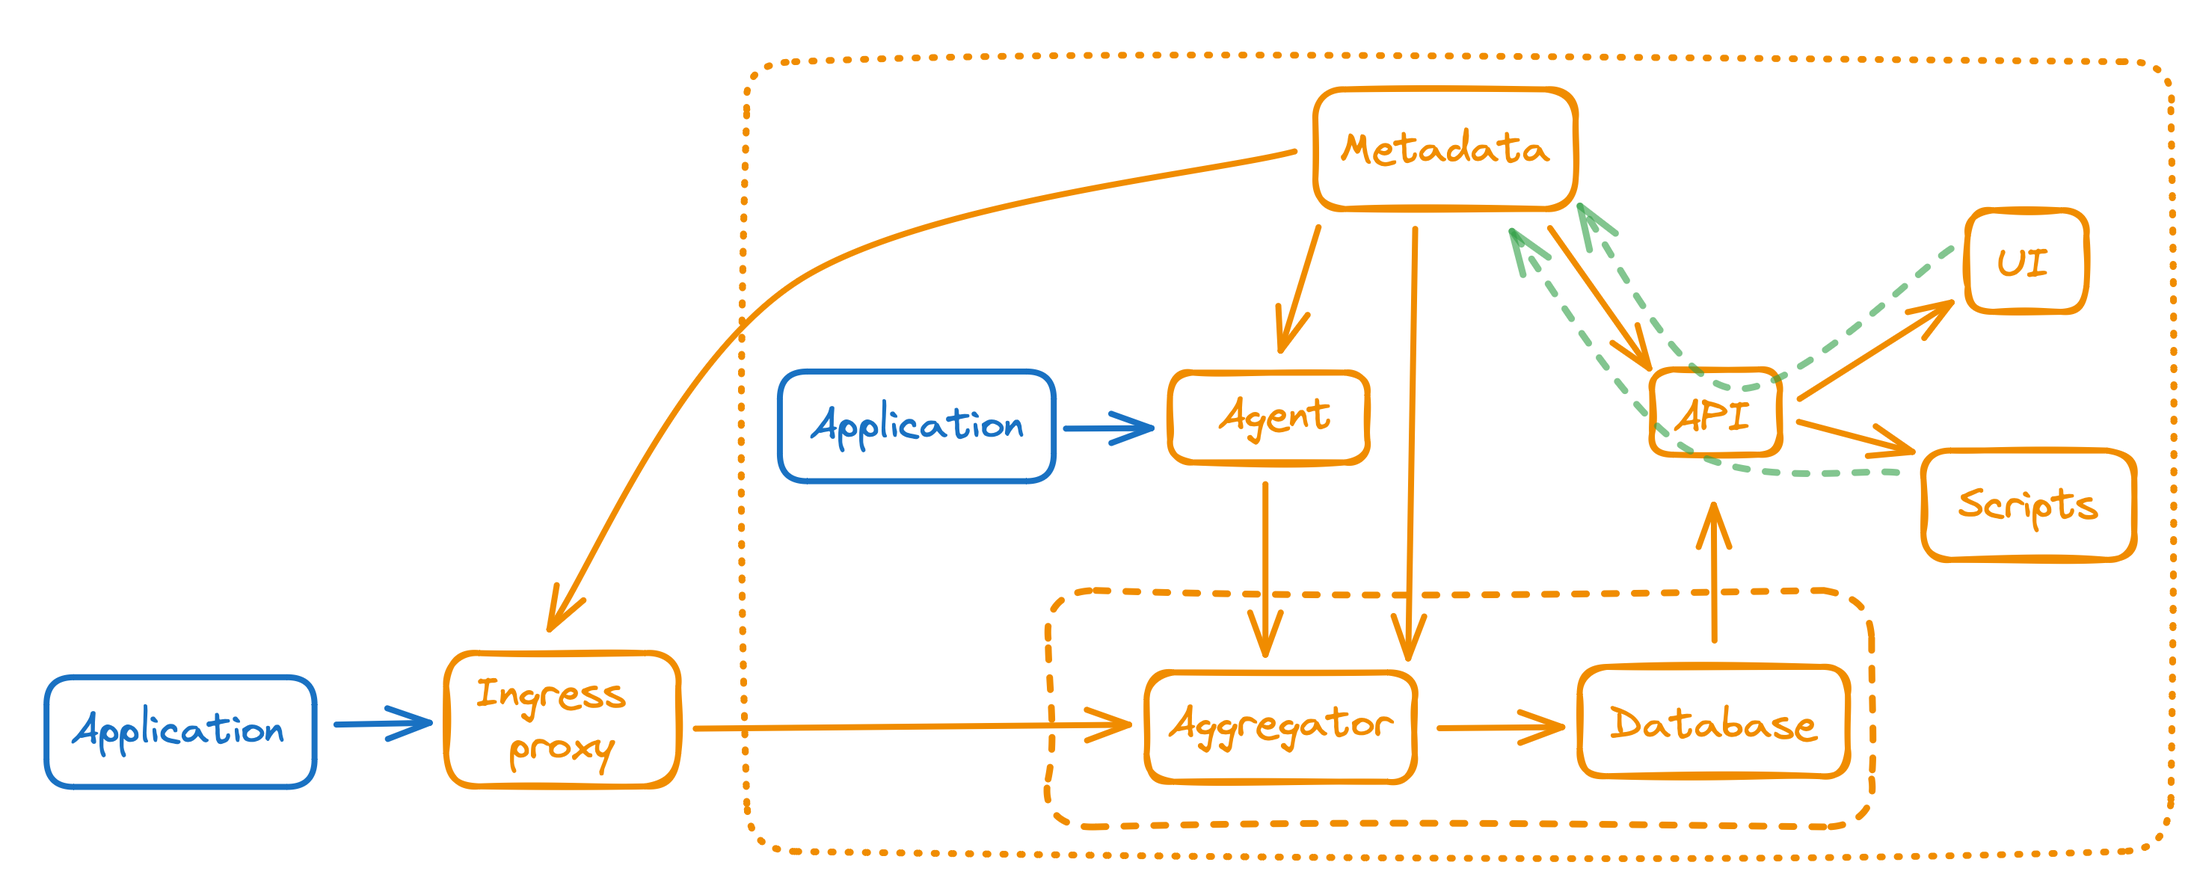
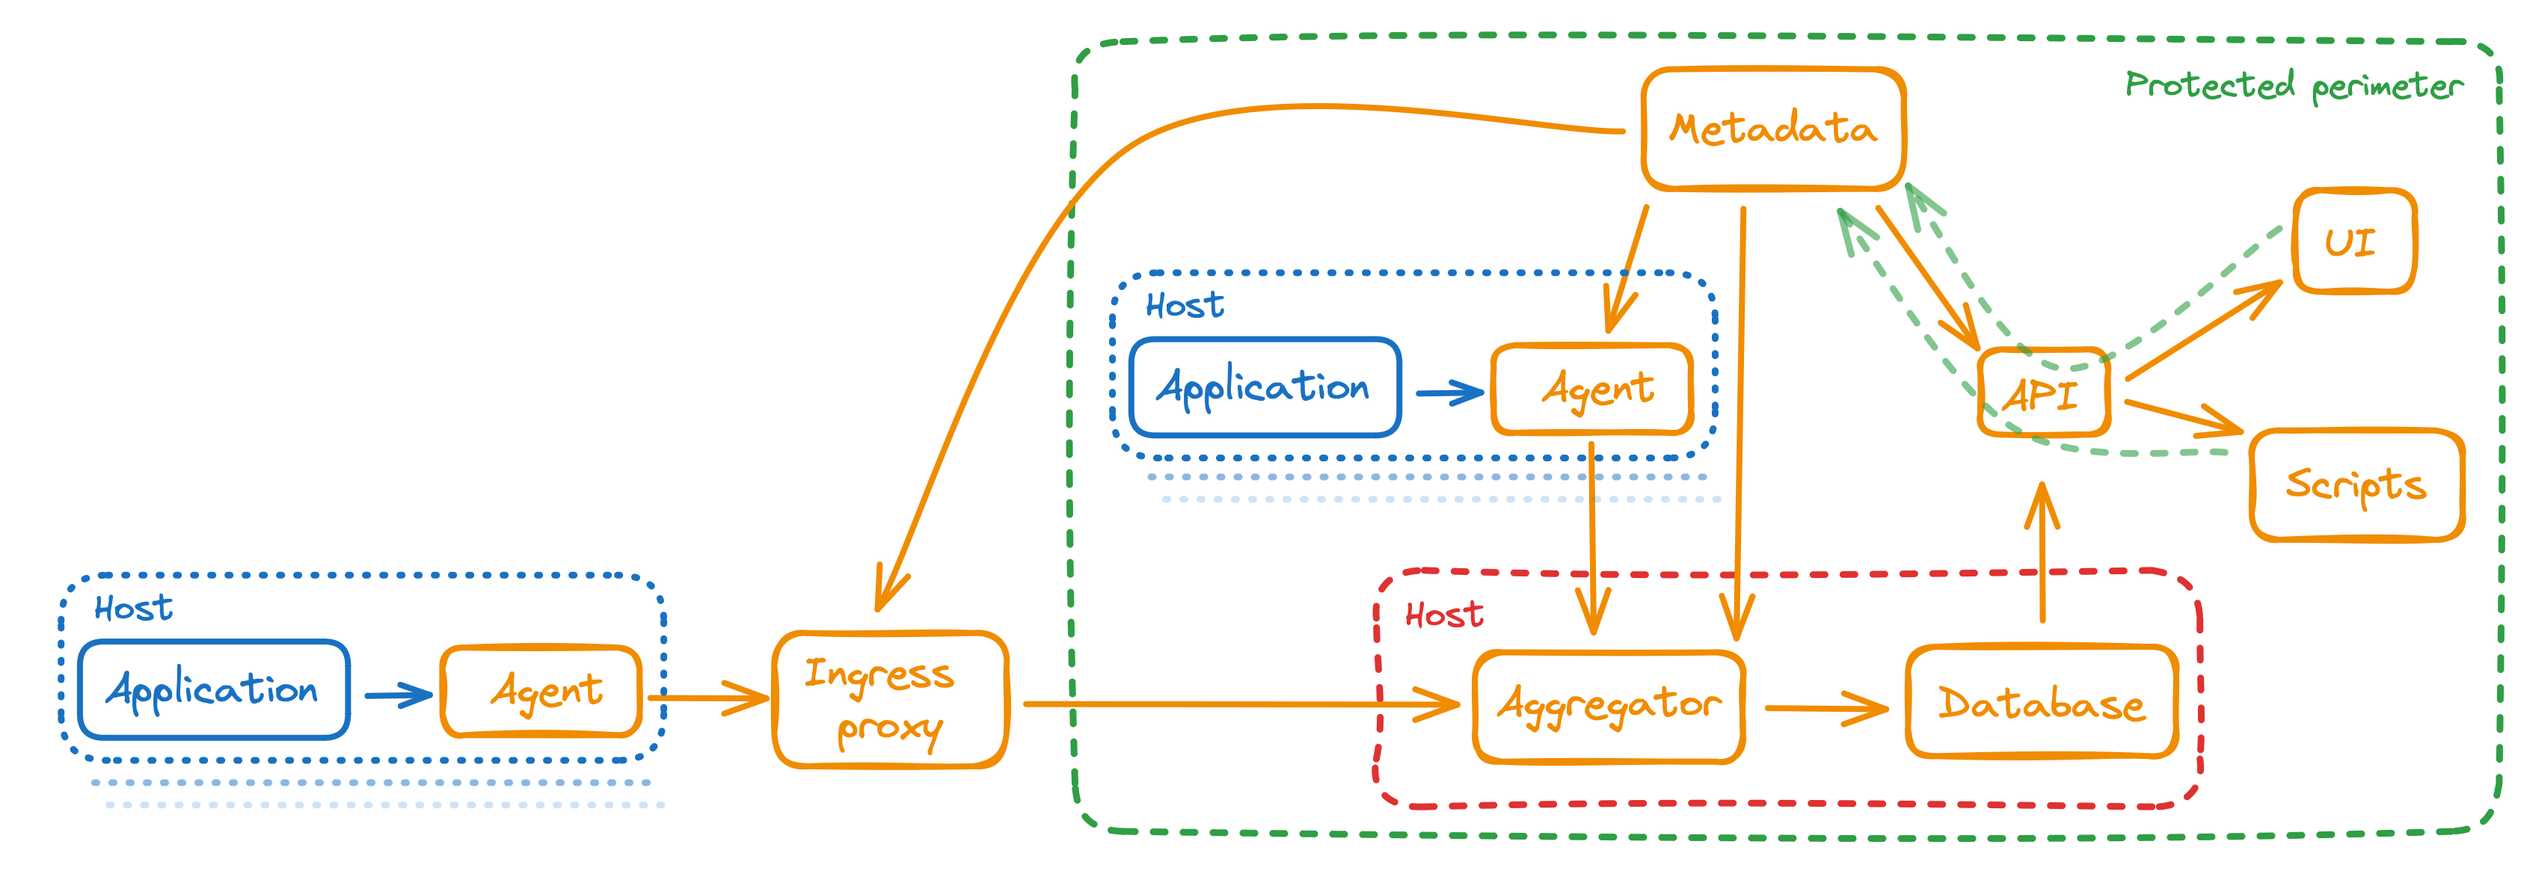
Added 'Components' section with updates

diff --git a/website/docs/conceptual overview/components.md b/website/docs/conceptual overview/components.md
@@ -8,6 +8,11 @@ import Aggregator from '../img/aggregator.png'
 import ShardsReplicas from '../img/shards-replicas.png'
 import RealHist from '../img/real-hist.png'
 import OddEven from '../img/odd-even.png'
+import IngressProxy from '../img/ingress-proxy.png'
+import AgentParameters from '../img/agent-parameters.png'
+import IngressProxyParameters from '../img/ingress-proxy-parameters.png'
+import Mapping from '../img/mapping.png'
+import MappingCached from '../img/mapping-cached.png'
 
 # Components
 
@@ -133,7 +138,6 @@ statshouse.metric#3325d884 fields_mask:#
 @write statshouse.addMetricsBatch#56580239 fields_mask:#
   metrics:(vector statshouse.metric)
 = True;
-
 ```
 
 Receive errors are returned as TL errors. We do not specify the error codes as we assume only logging and manual 
@@ -289,28 +293,281 @@ one.
 The `stag` column is not empty only if a metric has a [String top tag](../guides/design-metric.md#string-tag).
 :::
 
-## Data access service (API)
+To get data for time intervals longer than a second, StatsHouse aggregates data within them and produces per-minute
+and per-hour aggregates.
 
-## User interface
+Data is distributed across the ClickHouse shards using the hash of `metric, key0, … , key15`.
+If a metric has multiple tags, its data related to a particular tag (i.e., `"protocol":"tcp"`) are usually stored on
+different shards. To get the full statistics, one should always make _distributed queries_ to the whole set of shards.
+
+What is the reason for it?
+The set of tag values has a certain cardinality: there is a finite number of possible tag value combinations for a
+metric. If we reach this cardinality limit, i.e., we send all these tag value combinations, the amount of data stops
+increasing due to [aggregation](concepts.md#aggregation)—StatsHouse aggregates the events with the same tag value
+combination.
+
+To store the sample of data for the whole metric, each shard should store as many rows as there are tag value
+combinations for a metric—not a part proportional to a number of shards.
+
+StatsHouse does not use buffer tables—each aggregator inserts data once per second. Data is inserted into the 
+incoming table. The data is filtered by `time` within a receive window (48 hours) and copied via the meterialized 
+view. It prevents StatsHouse from inserting the "garbage" data. Otherwise, ClickHouse should have read data not 
+from one or two partitions but from all of them.
+
+A shard should have three or more replicas. Aggregators insert data into the first three ones.
+The rest ones are read-only replicas and may be used to scale the reading load.
+
+The number of shards can be any. To prevent incorrect configuration and inconsistent sharding, which may lead to a 
+sharp increase in the amount of data due to weak aggregation, agents send the number of a replica shard to 
+the aggregator. If the aggregator is not the right recipient for this data, it responds with an error. The same 
+number helps the _ingress proxy_ to forward data to the right aggregator.
+
+## Application programming interface (API)
+
+Find StatsHouse [OpenAPI](../guides/openapi.md) specification.
+
+The thin API client allows StatsHouse to send efficient queries to the database.
+The service caches data to minimize a database load. We limit retrieving data directly from ClickHouse
+as much as possible, since ineffective queries can negatively impact the ClickHouse cluster.
+
+## User interface (UI)
+
+A user interface retrieves data from `statshouse-api` and displays metric data in a graph view.
 
 ## Ingress proxy
 
+An ingress proxy receives data from the agents that live outside the protected perimeter
+(i.e., outside the data center) and sends it to the aggregators.
+
+Agents and aggregators use the TL/RPC protocol with the data center encryption key. So, the agents outside the 
+data center cannot connect to aggregators directly, because it would require disclosing or copying the key to the 
+external systems.
+
+The ingress proxy has a separate set of encryption keys for the external connections. To revoke the encryption 
+key, one should delete it from the ingress proxy configuration.
+
+Ingress proxy does not have a state. To reduce the likelihood of an attack, it proxies only the subset of TL/RPC 
+request types used by the aggregators.
+
+There should be exactly three ingress proxies. Each of them is a proxy to a corresponding replica of a shard. 
+If the proxy is unavailable due to service or shutdown, it is equivalent to a breakdown of one shard's replica and 
+does not affect the normal operation of the StatsHouse system.
+
+<img src={IngressProxy} width="600"/>
+
 ### Cryptokeys
+
+StatsHouse uses the VK RPC protocol with the (optional) encryption to connect the components.
+
+According to the VK RPC protocol, the cryptokey is both the login for getting access and the secret for getting the 
+ephemeral connection keys. To establish a connection, the client has to use one of the keys known to a server. 
+The central system component is the aggregators. Upon startup, they get the single "major" data center cryptokey.
+
+To connect to aggregators, the agents should get the parameters:
+* `-agg-addr=X`—the addresses of the first aggregators' shards;
+* `-aes-pwd-file=X`—the "major" data center cryptokey.
+
+<img src={AgentParameters} width="300"/>
+
+The mechanism above is secure only inside the protected perimeter. To connect from the outside, use the ingress proxy 
+installed at the border.
+
+This ingress proxy at the border has two parts:
+* an RPC server for the agents to connect from the outside,
+* an RPC client for the proxy to connect to the aggregators within the perimeter.
+
+For the ingress proxy, one should configure the parameters:
+* `-ingress-external-addr`—the proxies' external addresses the agents use for connection;
+* `-ingress-addr=X`—the parameter to control the interfaces for connecting agents.
+The `-ingress-addr=X` parameter is usually `:8128` that is the same as `0.0.0.0:8128`.
+It also may contain the subnet address of the network adapter to make it the 
+only gateway for connections. The port in the `-ingress-addr=X` parameter should match one of the ports in the 
+`-ingress-external-addr` parameter. The "outer" part of the ingress proxy should be available to the agents via these ports. 
+* `-aes-pwd-file=X`—the inner cryptokey for sending data to the aggregators,
+* `-ingress-pwd-dir=X`—a set of the external keys for the agents from the remote sites.
+
+<img src={IngressProxyParameters} width="500"/>
+
+This file contains the cryptokey; the file name is ignored and regarded as a comment.  
+The keys have random length—four bytes at least. The first four bytes are for key identification, so they must not 
+be identical.
+
+If the external keys in the directory are changed, restart the ingress proxy. The ingress proxy does not keep track 
+of this directory, because the external keys in the set are changed rarely.
+
+Each agent gets one of the keys from the ingress proxy's `-ingress-pwd-dir=X` directory as the `-aes-pwd-file=X` 
+parameter.
 
 ### A proxy behind the proxy
 
+Three ingress proxy instances simulate aggregators. One can set up one more ingress proxy level behind the existing 
+proxies. This level will use the previous ingress proxies as the aggregators.
+
+For the second proxy level, provide the parameters:
+* `-agg-addr=X`—three addresses from the `-ingress-external-addr=X` parameter of the previous ingress proxy level,
+* `-aes-pwd-file=X`—one of the cryptokeys from the `-ingress-pwd-dir=X` directory of the previous ingress proxy level.
+
 ### Kubernetes-related questions
+
+With the VK RPC protocol, StatsHouse gets the ephemeral connection keys using the remote and local IP addresses 
+of the connection—as they are shown to the client and the server.
+
+Routing packets from one adapter to another via firewall makes establishing the connections impossible.
+
+To connect the [Kubernetes](https://kubernetes.io)-like components, create the virtual network adapters and connect 
+them using the [Linux network namespaces](https://lwn.net/Articles/580893/).
+
+:::important
+Please avoid deploying agents and the ingress proxies in the Kubernetes pods.
+We strongly recommend deploying them on the server—make sure to specify the `13337` port.
+
+The reason is that StatsHouse "does not like" the fluctuating number of agents. 
+The agents send per-second reports to the aggregators. The permanent number of agents indicates that the agents are 
+connected to the aggregators. The pods that stopped working reduce the number of agents and activate the main StatsHouse alert.
+:::
 
 ## Metadata
 
-### Mapping budget
+A metadata service stores a list of metrics and their properties:
+* the metric type (to show the metric correctly in the UI),
+* the metric name, 
+* tag names, 
+* tags interpretation.
 
-Tag values are usually `string` values and appear repeatedly. For higher efficiency, StatsHouse maps all of them to
-`int32` values. This huge `string`↔`int32` map is common for all metrics. The elements of this map are never deleted.
-To prevent the uncontrollable increase of the map, the budget for creating new mappings is limited to 300.
+We usually deploy this service on the aggregators' first shards. 
+The load on this service is not so high—there is no need to deploy it on a separate host.
+
+### The budget for creating metrics
+
+:::important
+The users can create as many metrics as they wish as soon as they do it manually via the StatsHouse UI.
+
+As a rule, the administrators cannot automate creating metrics. 
+:::
+
+The StatsHouse components rely on the idea that there are not so many different metrics—hundreds of thousands as a 
+maximum. StatsHouse is not protected from the uncontrollable increase of the metrics' number.
+
+:::tip
+If you migrate to StatsHouse from the other monitoring solution, contact the StatsHouse administrators in your 
+organization to enable the "Auto-create" mode (and to disable it upon migration).
+:::
+
+### Getting metric properties from metadata
+
+Aggregators use the TL/RPC long polling to get metrics' information from metadata. Similarly, agents use 
+long polling to get information from aggregators. So, all the agents become informed about the changes in the metrics' 
+properties almost immediately (in a second).
+
+### Deleting metrics
+
+One cannot delete a metric, because there is no efficient way to do it in the ClickHouse database.
+StatsHouse uses the `visible` flag to disable the metric, i.e., to hide the metric from the metric list 
+(it is reversible). Disabling a metric stops writing data for it to the database.
+
+### The mapping mechanism
+
+StatsHouse is known for providing real-time data. To provide users with low latency, StatsHouse maps the 
+`string` tag values (as well as metric names) to `int32` values:
+```
+    'iphone' <=> 12
+    'null' <=> 26
+```
+
+This huge `string`↔`int32` map is global and common for all metrics. The elements of this map are never deleted.
+
+Aggregators get information directly from the metadata service. Agents deal with the mappings via the aggregators.
+Both the agents and the aggregators cache the mappings in memory or in files—for a month.
+
+<img src={MappingCached} width="700"/>
+
+Upon initial startup, the agents use the special bootstrap request to get the 100,000 most frequently used mappings.
+Otherwise, while deploying the agents on the 10,000 hosts, StatsHouse should have downloaded a billion values one by 
+one. It would take a lot of time, and StatsHouse would not be able to write metric data.
+
+#### The budget for creating mappings
+
+To prevent the uncontrollable increase of the `string`↔`int32` map, the budget for creating mappings is limited to 300.
 Upon exceeding the budget, new mappings can be added once per hour (this rule is customizable).
 
-Mapping flood appears when you exceed this budget.
+**Mapping flood** appears when you exceed this budget. When the budget is over and new mappings are not allowed, 
+StatsHouse inserts a service `mapping flood` value to a tag column not to lose the entire event.
 
-Then the budget is over and new mappings are not allowed, StatsHouse inserts a service `mapping flood` value to a
-tag column not to lose the entire event.
+There are options to use [tags with many different values](../guides/design-metric.md#how-many-tag-values) 
+and to avoid the mapping flood: [String top](../guides/design-metric.md#string-top-tag) tag and 
+[Raw](../guides/design-metric.md#raw-tags) tags.
+
+<img src={Mapping} width="600"/>
+
+If you need a tag with many different 32-bit integer values (such as `user_ID`), use the
+[Raw](../guides/design-metric.md#raw-tags) tag values to avoid the mapping flood.
+
+For many different string values (such as `search_request`), use a [String top tag](#string-top-tag).
+
+#### _String top_ tag
+
+The _String top tag_ stands apart from the other ones as its values are _not mapped to integers_. It is a separate 
+`stag` column in the ClickHouse table:
+
+| timestamp | metric           | tag_1                                                           | tag_2                                                         | counter | sum   | min | max  | <text className="orange-text">stag</text>                                   |
+|-----------|------------------|-----------------------------------------------------------------|---------------------------------------------------------------|---------|-------|-----|------|-----------------------------------------------------------------------------|
+| 13:45:05  | toy_packets_size | JSON<br/><text className="orange-text">mapped to `int32`</text> | ok<br/><text className="orange-text">mapped to `int32`</text> | 100     | 13000 | 20  | 1200 | my-tag-value<br/><text className="orange-text">NOT mapped to `int32`</text> |
+
+As the non-mapped strings take up a lot of space and are longer to read, StatsHouse limits their number (e.g., to a 
+hundred). This limit is not configurable for users.
+
+:::important
+For these _String top_ tag values, StatsHouse stores only the most frequently used ones—those with the highest 
+_counter_. The other tag values for this metric become _empty_ and are aggregated.
+:::
+
+For example, the limitation for the non-mapped strings is 4, and we have the following metric data:
+
+| timestamp | metric     | tag_1 | tag_2 | counter | sum | min | max | stag |
+|-----------|------------|-------|-------|---------|-----|-----|-----|------|
+| 13:45:05  | toy_metric | ...   | ...   | 100     | ... | ... | ... | a    |
+| 13:45:05  | toy_metric | ...   | ...   | 3       | ... | ... | ... | b    |
+| 13:45:05  | toy_metric | ...   | ...   | 100     | ... | ... | ... | c    |
+| 13:45:05  | toy_metric | ...   | ...   | 88      | ... | ... | ... | d    |
+
+The next piece of data adds one more row: with the `e` _String top_ tag value and the counter equal to `5`.
+The _String top_ mechanism chooses the tag value with the lowest count (`b` is the less popular one) and makes it 
+_empty_:
+
+| timestamp | metric     | tag_1 | tag_2 | counter | sum | min | max | stag                   |
+|-----------|------------|-------|-------|---------|-----|-----|-----|------------------------|
+| 13:45:05  | toy_metric | ...   | ...   | 100     | ... | ... | ... | a                      |
+| 13:45:05  | toy_metric | ...   | ...   | **3**   | ... | ... | ... | **b** → _empty string_ |
+| 13:45:05  | toy_metric | ...   | ...   | 100     | ... | ... | ... | c                      |
+| 13:45:05  | toy_metric | ...   | ...   | 88      | ... | ... | ... | d                      |
+| 13:45:05  | toy_metric | ...   | ...   | **55**  | ... | ... | ... | **e**                  |
+
+The next piece of data adds one more row: with the `f` tag value and the counter equal to `2`.
+
+| timestamp | metric     | tag_1 | tag_2 | counter | sum | min | max | stag                    |
+|-----------|------------|-------|-------|---------|-----|-----|-----|-------------------------|
+| 13:45:05  | toy_metric | ...   | ...   | 100     | ... | ... | ... | a                       |
+| 13:45:05  | toy_metric | ...   | ...   | 3       | ... | ... | ... | _empty string_          |
+| 13:45:05  | toy_metric | ...   | ...   | 100     | ... | ... | ... | c                       |
+| 13:45:05  | toy_metric | ...   | ...   | 88      | ... | ... | ... | d                       |
+| 13:45:05  | toy_metric | ...   | ...   | 55      | ... | ... | ... | e                       |
+| 13:45:05  | toy_metric | ...   | ...   | **2**   | ... | ... | ... | **f** → _empty string_  |
+
+As the `f` tag value is not in the top of the frequently used ones (i.e., it has the low _count_), it becomes the 
+empty string too and is aggregated with the previous _empty string_:
+
+| timestamp | metric     | tag_1 | tag_2 | counter | sum | min | max | stag                    |
+|-----------|------------|-------|-------|---------|-----|-----|-----|-------------------------|
+| 13:45:05  | toy_metric | ...   | ...   | 100     | ... | ... | ... | a                       |
+| 13:45:05  | toy_metric | ...   | ...   | **3+2** | ... | ... | ... | _empty string_          |
+| 13:45:05  | toy_metric | ...   | ...   | 100     | ... | ... | ... | c                       |
+| 13:45:05  | toy_metric | ...   | ...   | 88      | ... | ... | ... | d                       |
+| 13:45:05  | toy_metric | ...   | ...   | 55      | ... | ... | ... | e                       |
+
+#### _Raw_ tags
+
+If tag values in your metric are originally 32-bit integer values, you can mark them as the _Raw_ ones 
+to avoid the mapping flood. 
+These _Raw_ tag values will be parsed as `(u)int32` (`-2^31..2^32-1` values are allowed) 
+and inserted into the ClickHouse database as is.
+Learn how to [set up _Raw_ tags](../guides/edit-metrics.md#set-up-raw-tags).

diff --git a/website/docs/guides/design-metric.md b/website/docs/guides/design-metric.md
@@ -314,8 +314,8 @@ high [cardinality](../conceptual%20overview/concepts.md#cardinality).
 In StatsHouse, metric cardinality is how many unique tag value combinations you send for a metric.
 
 If a tag has too many values, they will soon exceed the
-[mapping budget](../conceptual%20overview/components.md#mapping-budget) and will be lost: tag values
-for your measurements will be `Empty`.
+[mapping budget](../conceptual%20overview/components.md#the-budget-for-creating-mappings) and will be lost: tag values
+for your measurements will become the empty strings.
 
 Even if all your tag values have been already mapped, and you
 [avoid the mapping flood](edit-metrics.md#set-up-raw-tags) but keep sending data with many tag values,
@@ -334,14 +334,14 @@ We recommend that the very first tags have the lowest cardinality rate. For exam
 If you need a tag with many different 32-bit integer values (such as `user_ID`), use the
 [Raw](#raw-tags) tag values to avoid the mapping flood.
 
-For many different string values (such as `search_request`), use a [String top tag](#string-tag).
+For many different string values (such as `search_request`), use a [String top tag](#string-top-tag).
 :::
 
 ### _Raw_ tags
 
 If tag values in your metric are originally 32-bit integer values, you can
 [mark them as _Raw_ ones](edit-metrics.md#set-up-raw-tags)
-to avoid the [mapping flood](../conceptual%20overview/components.md#mapping-budget).
+to avoid the [mapping flood](../conceptual%20overview/components.md#the-budget-for-creating-mappings).
 
 These _Raw_ tag values will be parsed as `(u)int32` (`-2^31..2^32-1` values are allowed) 
 and inserted into the ClickHouse database as is.
@@ -357,14 +357,14 @@ requests.
 
 With the common tags, you will get [mapping flood errors](view-graph.md#mapping-status) very soon for this scenario.
 The _String top tag_ stands apart from the other ones as its values are not
-[mapped](../conceptual%20overview/components.md#mapping-budget) to integers. Thus, you can avoid
+[mapped](../conceptual%20overview/components.md#the-mapping-mechanism) to integers. Thus, you can avoid
 mapping flood errors and massive sampling.
 
-The _String top tag_ has a special storage: when you send your data labeled with many `string` tag values, only the most
-popular tag values are stored. The other tag values for this metric become `Empty` and are aggregated.
+The _String top tag_ has a special storage: when you send your data labeled with the _String top_ tag values, only the 
+most popular tag values are stored. The other tag values for this metric become empty strings and are aggregated. Read 
+more about the [String top tag implementation](../conceptual%20overview/components.md#string-top-tag).
 
-To filter data with the _String top tag_ on a graph, [add a name or description](edit-metrics.md#set-up-string-tag) 
-to it.
+To filter data with the _String top tag_ on a graph, [add a name or description](edit-metrics.md#set-up-string-tag) to it.
 
 ### Host name as a tag
 

diff --git a/website/docs/guides/edit-metrics.md b/website/docs/guides/edit-metrics.md
@@ -146,7 +146,8 @@ show in the UI:
 ### Set up _Raw tags_
 
 If you need a tag with many different 32-bit integer values (such as `user_ID`), use the
-_Raw_ tag values to avoid the [mapping flood](../conceptual%20overview/components.md#mapping-budget).
+[_Raw_ tag values](design-metric.md#raw-tags) to avoid the 
+[mapping flood](../conceptual%20overview/components.md#the-budget-for-creating-mappings).
 
 To help yourself remember what they mean, specify a 
 [format](#specifying-formats-for-raw-tag-values) for your data to show in the UI 
